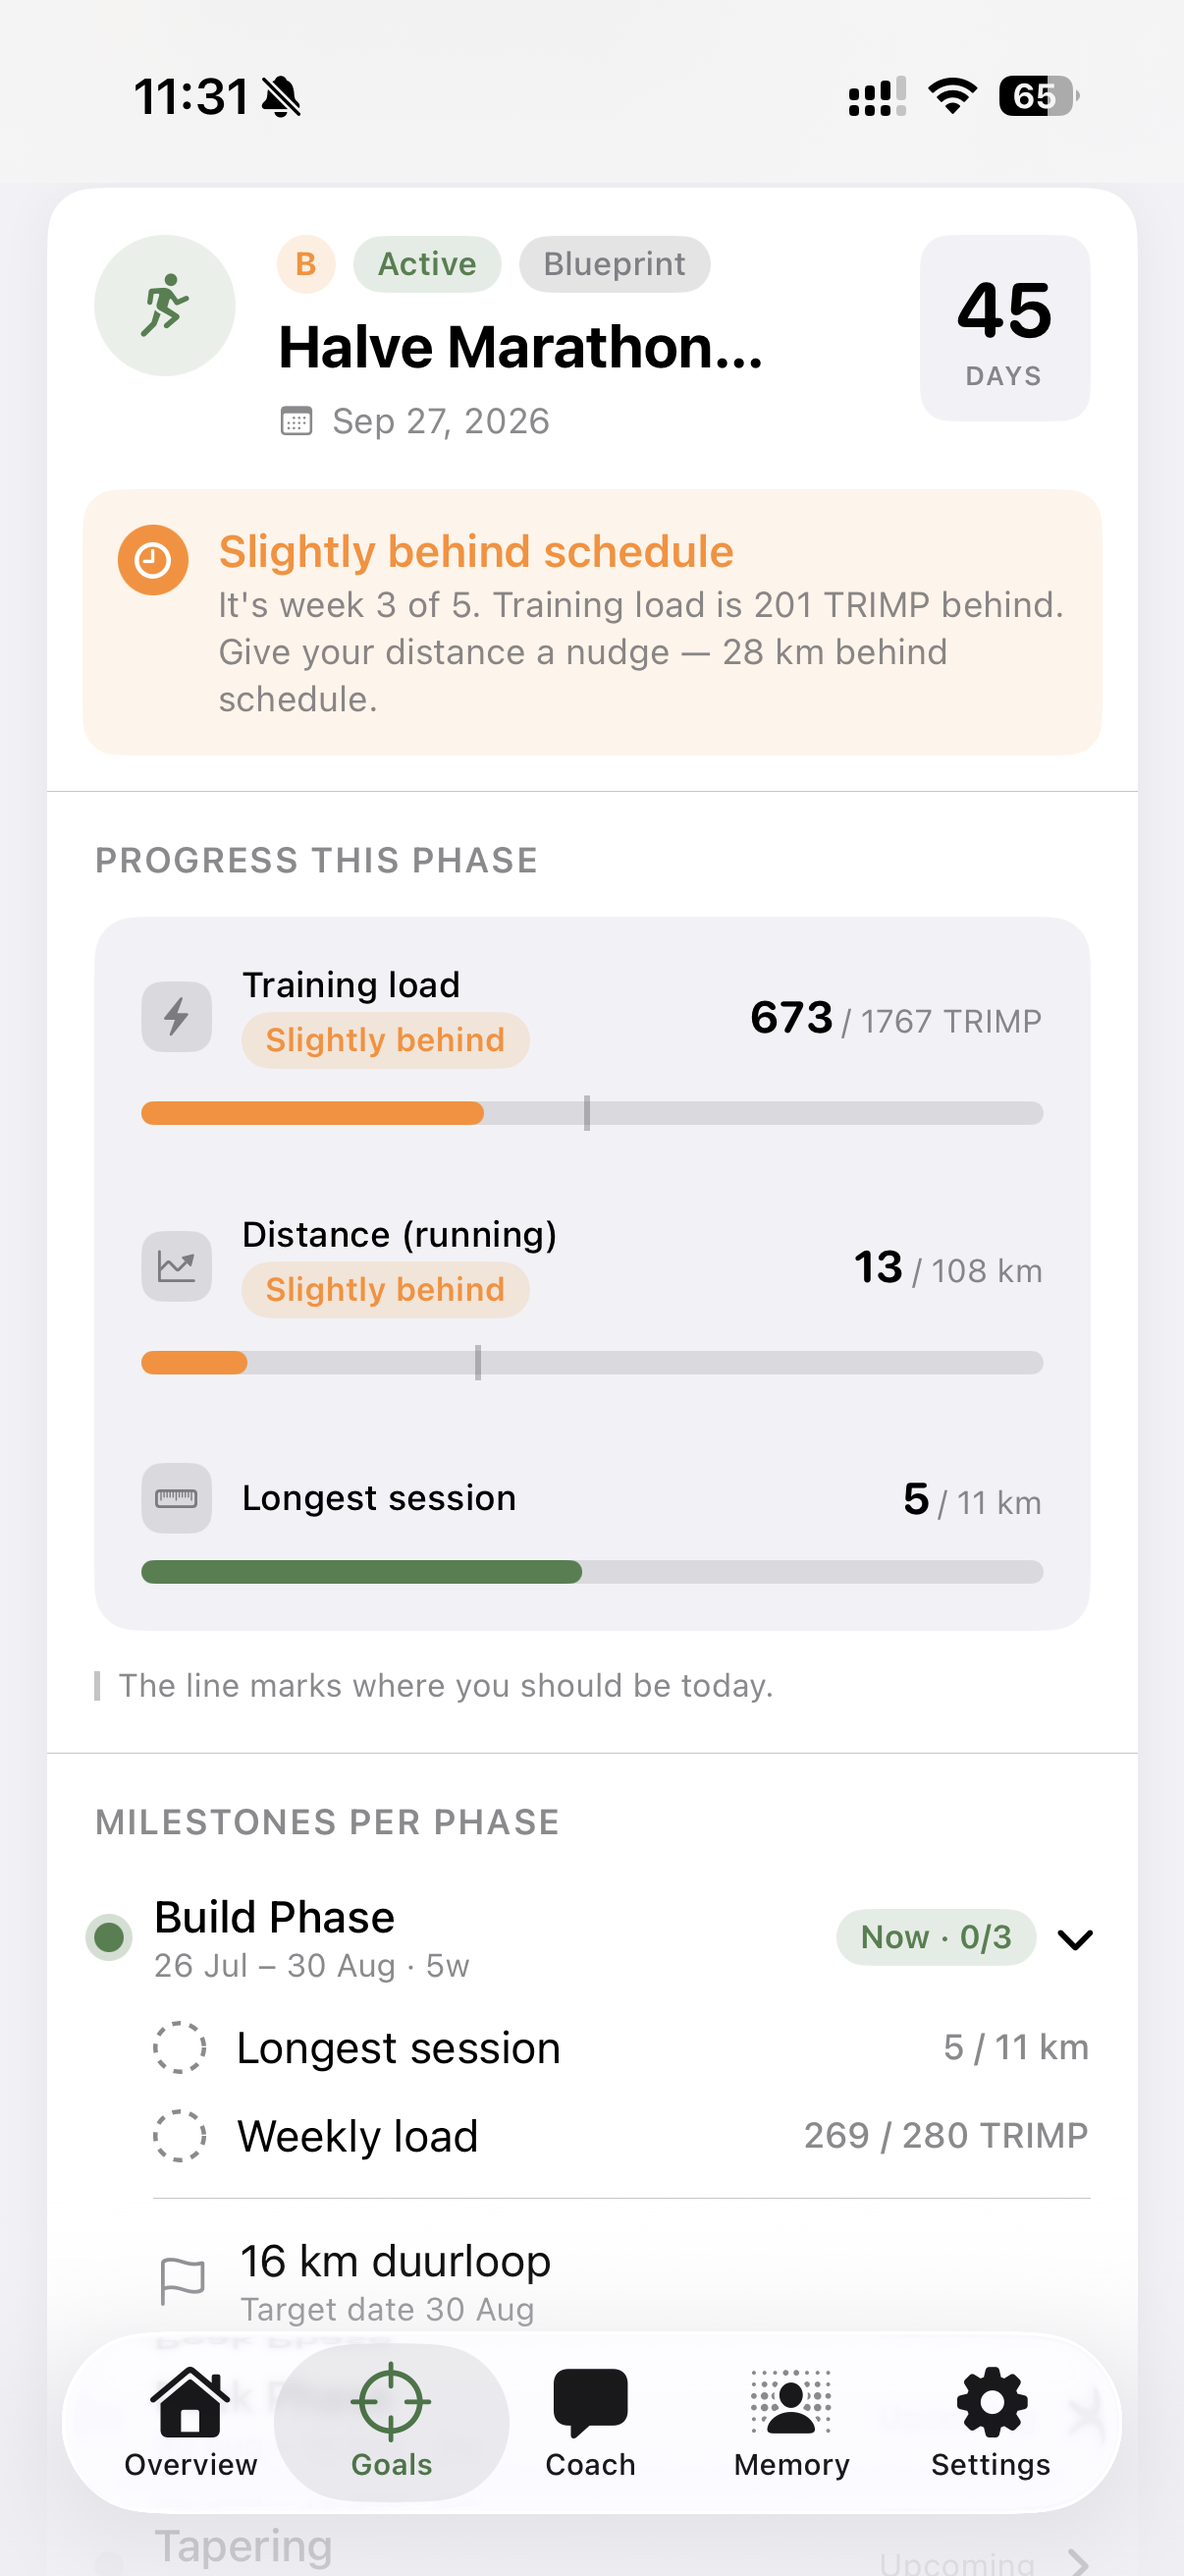
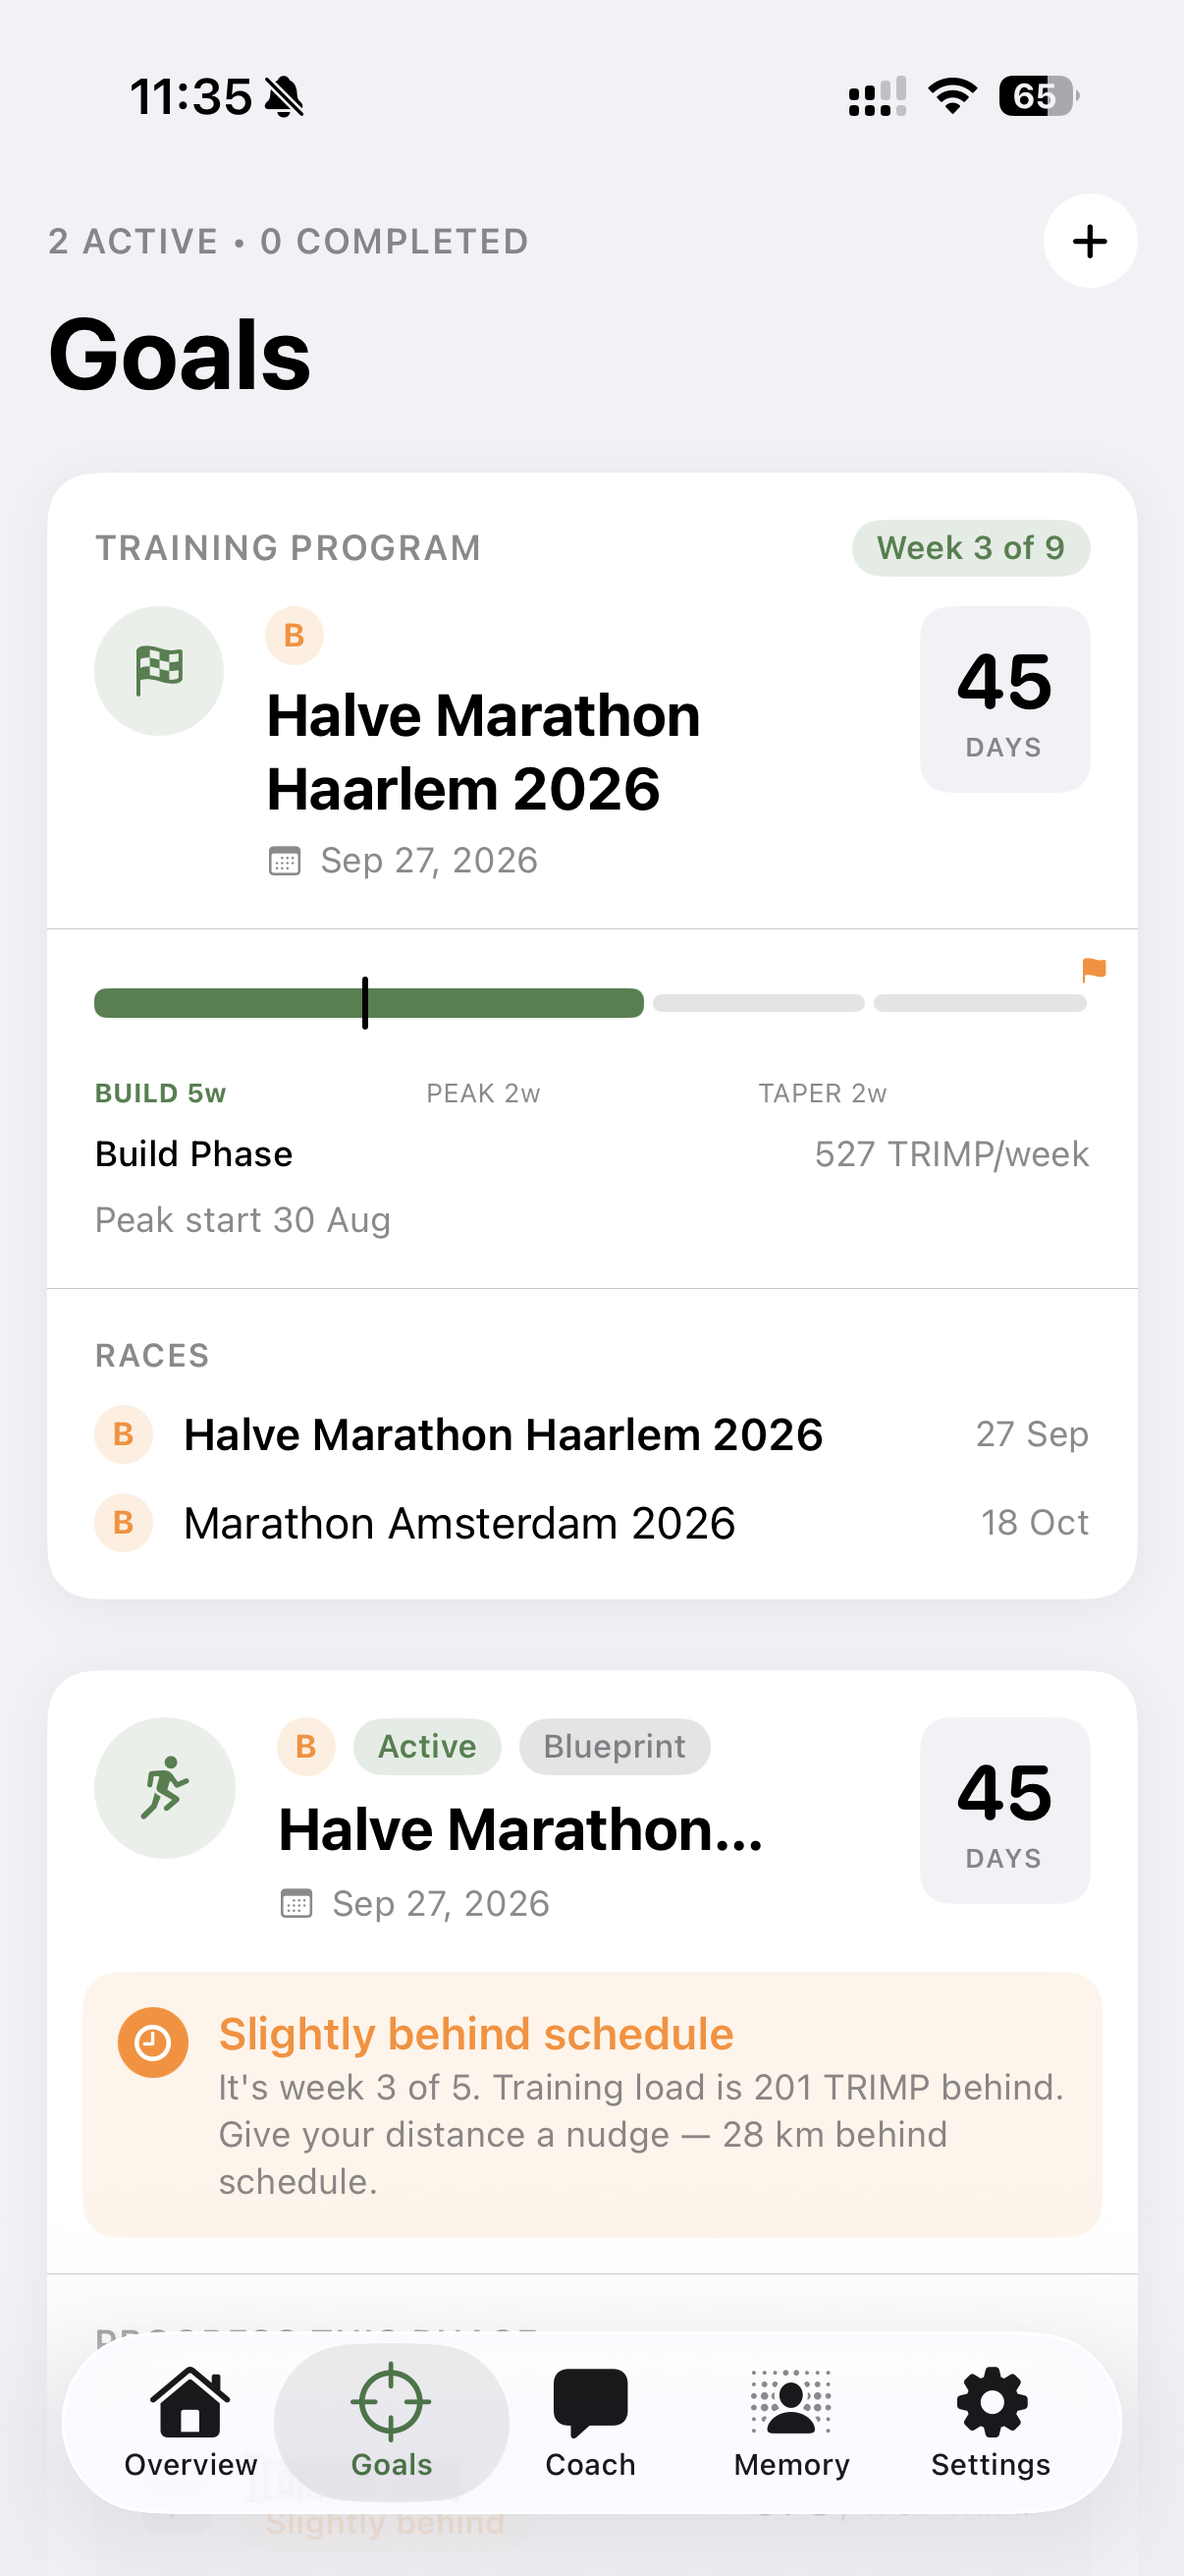
docs(epic-73): showcase capture of the unified programme timeline
Replaces the previous capture, which was scrolled past the top of the tab and
therefore missed the epic's headline surface. This one leads with
ProgramTimelineCard: the macrocycle bar (BUILD/PEAK/TAPER sized by real
duration, "you are here" tick, interim race as a flag marker), the week
counter, the one combined weekly TRIMP target, the next-phase hint, and the
race list with A/B/C badges — matching the rewritten README block.

The capture index row for this slot is updated to describe the new surface
instead of the pre-#73 phase DisclosureGroup.

Claude-Session: https://claude.ai/code/session_01Rpht1a31DZAuyDQ3ykgdQH

diff --git a/docs/screenshots/README.md b/docs/screenshots/README.md
@@ -13,7 +13,7 @@ without changing the file names, so the README keeps working automatically.
 | `02-proactive-coaching.png` | Proactive coaching | A proactive notification, or the red banner + recovery plan |
 | `03-coach-chat.png` | AI coach (BYOK) | The Coach tab mid-conversation |
 | `04-workout-deepdive.png` | Workout deep-dive | `WorkoutAnalysisView` with the annotated HR/power chart + pattern chips |
-| `05-goals-phases.png` | Goals & phases | The Goals view with a phase `DisclosureGroup` expanded |
+| `05-goals-phases.png` | Goals — will I make it? | Top of the Goals tab: the `ProgramTimelineCard` macrocycle bar (Epic #73) with the race list, and the first goal card below it |
 | `06-multiday-weather.png` | Multi-day events & weather | The week schedule showing stage entries + per-stage weather |
 | `07-dual-source-sync.png` | Dual-source sync | Settings → data sources, or a workout with the source badge |
 | `08-language-privacy.png` | Language & privacy | Settings → language picker (NL/EN/DE/ES) |
